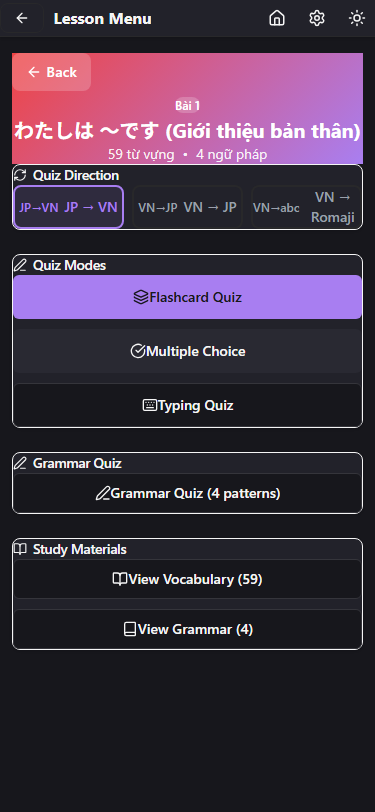
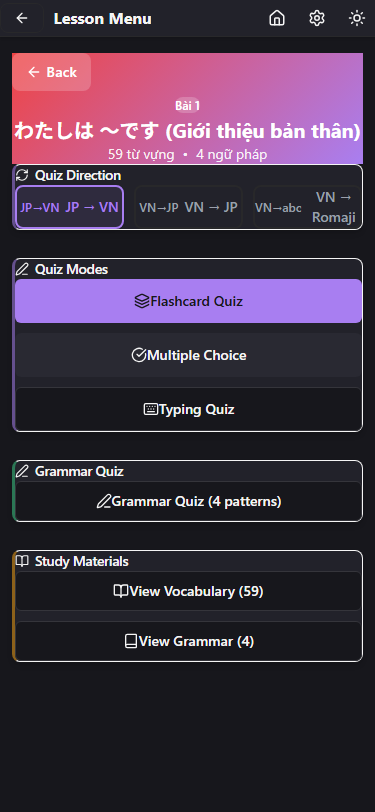
fix(ui): improve kanji + lesson menu card spacing and visual accents
Kanji page: increased grid gap (3→4), added shadow-sm + left primary
accent border to lesson cards for better separation and visual interest.

Lesson menu: added shadow-md + color-coded left accent borders
(primary for quiz, success for grammar, warning for materials),
increased section gap (6→7) and direction button spacing.

diff --git a/svelte-app/src/routes/course/[courseId]/lesson/[id]/+page.svelte b/svelte-app/src/routes/course/[courseId]/lesson/[id]/+page.svelte
@@ -61,19 +61,19 @@
       </div>
     </div>
 
-    <div class="px-4 py-6 flex flex-col gap-6">
+    <div class="px-4 py-6 flex flex-col gap-7">
       <!-- Direction Selector -->
-      <Card>
+      <Card class="shadow-md border-l-3 border-l-primary/50">
         <CardHeader class="pb-2"><CardTitle class="text-sm flex items-center gap-1.5"><RefreshCw size={14} aria-hidden="true" /> Quiz Direction</CardTitle></CardHeader>
         <CardContent>
-          <div class="grid grid-cols-3 gap-2" role="radiogroup" aria-label="Quiz direction">
+          <div class="grid grid-cols-3 gap-2.5" role="radiogroup" aria-label="Quiz direction">
             {#each directions as dir}
               <button
                 role="radio"
                 aria-checked={selectedDirection === dir.value}
-                class="flex items-center justify-center gap-1.5 py-2 px-3 rounded-lg border-2 text-sm font-semibold transition-all cursor-pointer
+                class="flex items-center justify-center gap-1.5 py-2.5 px-3 rounded-lg border-2 text-sm font-semibold transition-all cursor-pointer
                   {selectedDirection === dir.value
-                    ? 'border-primary bg-primary/10 text-primary'
+                    ? 'border-primary bg-primary/10 text-primary shadow-sm'
                     : 'border-border bg-card text-muted-foreground hover:border-primary hover:text-foreground'}"
                 on:click={() => selectedDirection = dir.value}
               >
@@ -86,7 +86,7 @@
       </Card>
 
       <!-- Quiz Modes -->
-      <Card>
+      <Card class="shadow-md border-l-3 border-l-primary/50">
         <CardHeader class="pb-2"><CardTitle class="text-sm flex items-center gap-1.5"><PenLine size={14} aria-hidden="true" /> Quiz Modes</CardTitle></CardHeader>
         <CardContent class="flex flex-col gap-2.5">
           <UiButton size="lg" class="w-full" onclick={() => startQuiz('flashcard')}>
@@ -103,7 +103,7 @@
 
       <!-- Grammar Quiz -->
       {#if lesson.grammar.length > 0}
-        <Card>
+        <Card class="shadow-md border-l-3 border-l-success/50">
           <CardHeader class="pb-2"><CardTitle class="text-sm flex items-center gap-1.5"><PenLine size={14} aria-hidden="true" /> Grammar Quiz</CardTitle></CardHeader>
           <CardContent>
             <UiButton variant="outline" class="w-full" onclick={() => goto(`${base}/course/${courseId}/lesson/${lessonId}/grammar-quiz/mixed`)}>
@@ -114,7 +114,7 @@
       {/if}
 
       <!-- Study Materials -->
-      <Card>
+      <Card class="shadow-md border-l-3 border-l-warning/50">
         <CardHeader class="pb-2"><CardTitle class="text-sm flex items-center gap-1.5"><BookOpen size={14} aria-hidden="true" /> Study Materials</CardTitle></CardHeader>
         <CardContent class="flex flex-col gap-2.5">
           <UiButton variant="outline" class="w-full" onclick={() => goto(buildVocabularyUrl(courseId, lessonId))}>

diff --git a/svelte-app/src/routes/kanji/+page.svelte b/svelte-app/src/routes/kanji/+page.svelte
@@ -60,10 +60,10 @@
   </a>
 
   {#if selectedLevel === 'n5n4'}
-    <div class="grid grid-cols-2 sm:grid-cols-3 lg:grid-cols-4 gap-3">
+    <div class="grid grid-cols-2 sm:grid-cols-3 lg:grid-cols-4 gap-4">
       {#each lessons as lesson}
         <a href="{base}/kanji/{lesson.lessonNumber}" class="text-left no-underline">
-          <Card class="h-full hover:border-primary hover:-translate-y-0.5 hover:shadow-lg transition-all cursor-pointer">
+          <Card class="h-full shadow-sm border-l-3 border-l-primary/40 hover:border-l-primary hover:-translate-y-0.5 hover:shadow-lg transition-all cursor-pointer">
             <CardContent class="p-4">
               <div class="text-xs font-bold text-primary mb-1">Bài {lesson.lessonNumber}</div>
               <div class="text-sm font-semibold mb-1" style="font-family: var(--font-jp)">{lesson.title}</div>
